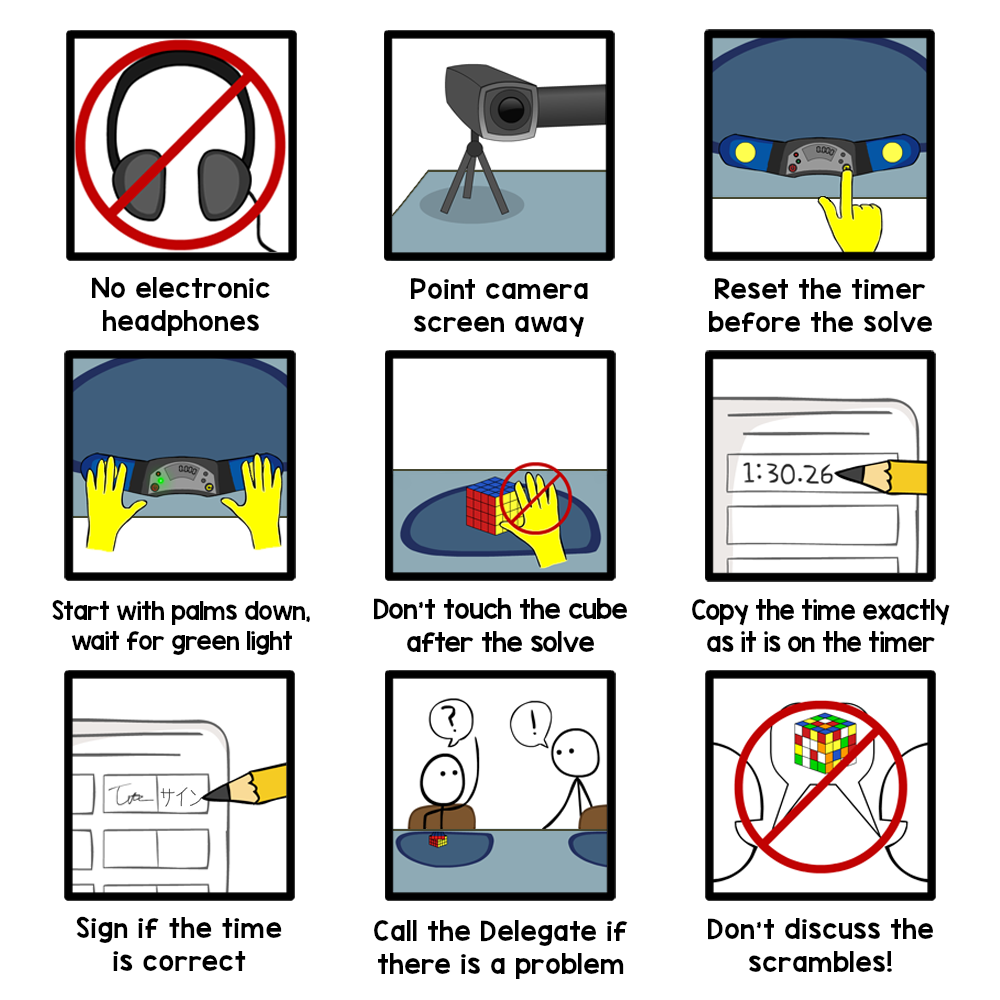
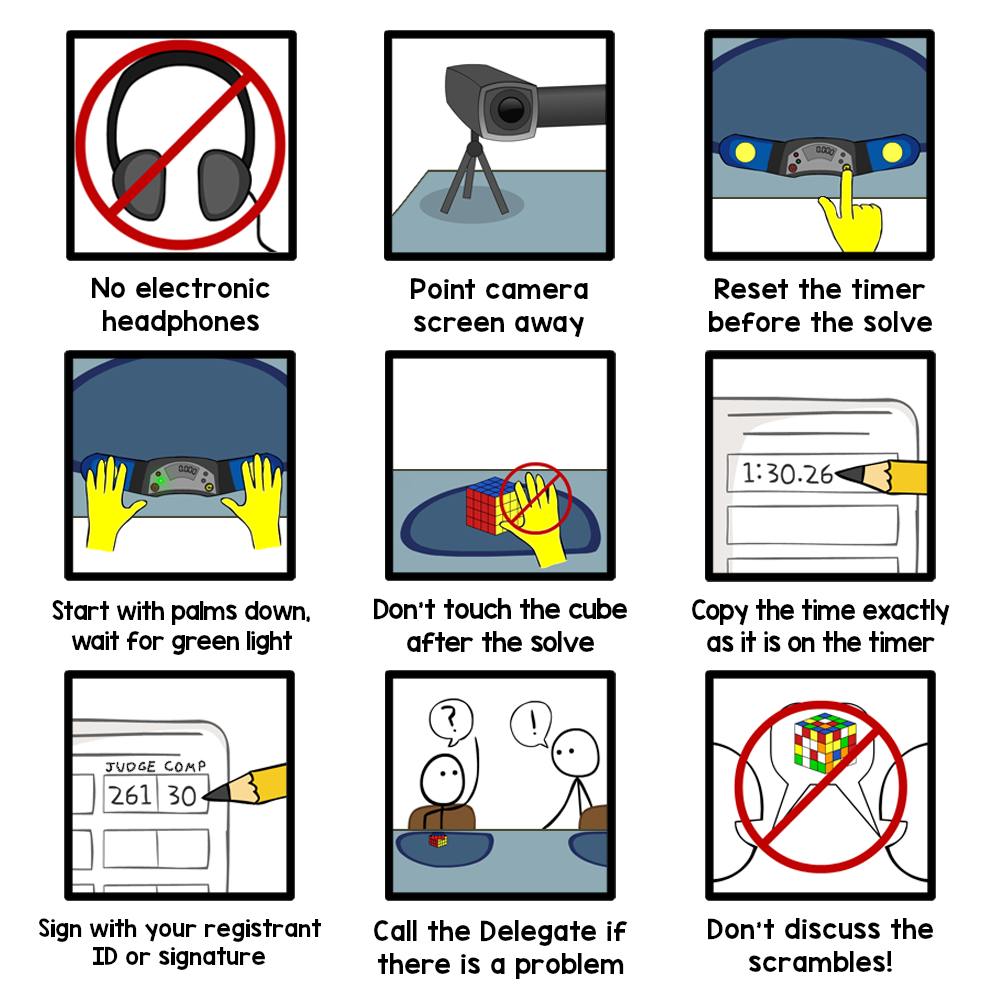
Update competition templates readme with information about the new MBLD templates

Changed region(s): [[0.031, 0.899, 0.31, 0.992], [0.093, 0.744, 0.217, 0.806]]

diff --git a/edudoc/competition-templates/competition-templates.md b/edudoc/competition-templates/competition-templates.md
@@ -4,14 +4,22 @@
 DO NOT use any templates before reading this entire document!
 :::::
 
-Here you can find printable templates for cube covers and Clock covers, both of which are stackable; 3D-printable cover designs for Square-1, Clock and Skewb puzzles; results boxes for scorecards: a design that can be hung on a wall and another that can be put on a table; Square-1 inserts (21 per page) and an outline of some important competition rules.
+Here you can find the following printable templates that can be used for WCA competitions:
+
+- Cube covers and Clock covers, both stackable
+- 3D-printable cover designs for Square-1, Clock and Skewb puzzles
+- Results boxes for scorecards: one that can be put on a table and another that can be hung on a wall
+- Square-1 inserts (21 per page)
+- Competing guide infographic with illustrations of the most important rules
+- Multi-Blind scrambling infographic, with illustrations that show best practices
+- Sheet with cube outlines for tracking Multi-Blind scrambles (14 cubes per page)
 
 ![](images/results_boxes_and_cube_cover.jpg){.centered width=600px}
 
 ## Instructions
 
-1. If you would like to use the WCA designs, use the files in the folder for the language used in your region. **WARNING: Some of the PDF previews might have rendering artifacts, but these won't show up if you download the files.** If you would like to make custom designs, use the files in the `Editable Files` folder. **DO NOT** make colored Clock cover designs, they must be in black and white (BW).
-2. The designs for paper Clock covers and competition rules can be printed on a home printer; the Clock covers need to be printed in BW and the competition rules need to be printed in color. The other designs **MUST** be printed using an industry-grade printer, so you will have to find a printing place in your area. They will require `PDF` files to make your prints.
+1. If you would like to use the WCA designs, use the files in the folder for the language used in your region. **WARNING: Some of the PDF previews might have rendering artifacts, but these won't show up if you download the files.** If you would like to make custom designs, use the files in the `Editable Files` folder. **DO NOT** make colored Clock cover designs, they must be in black and white (BW) in order to avoid affecting Clock pins.
+2. The template for paper Clock covers, the infographics, and the Multi-Blind cube outline sheet can be printed on a home printer. The infographics need to be printed in color, and the other two files need to be printed in BW. All other templates **MUST** be printed using an industry-grade printer, so you will have to find a printing service in your area. They will require `.pdf` files to make your prints.
 
 ![](images/paper_clock_covers.jpg){.centered width=450px}
 
@@ -35,14 +43,15 @@ Brendan's 3D multipurpose cover
 5. Make sure you print all templates **STRICTLY** within the following specifications:
 :::::
 
-| Template               | Paper size | Paper density  | Paper type |
-| ---------------------- | :--------: | :------------- | :--------: |
-| Cube cover             |     A3     | 350-400 gsm \* |   Color    |
-| Paper Clock cover \*\* |     A4     | 60-90 gsm      |     BW     |
-| Results box (table)    |     A3     | 350-400 gsm \* |   Color    |
-| Results box (wall)     |     A4     | 250-400 gsm    |   Color    |
-| Square-1 inserts       |     A4     | 250-400 gsm    |   Color    |
-| Competition rules      |     A4     | Any            |   Color    |
+| Template                                | Paper size | Paper density  | Color / BW |
+| --------------------------------------- | :--------: | :------------- | :--------: |
+| Cube cover                              |     A3     | 350-400 gsm \* |   Color    |
+| Paper Clock cover \*\*                  |     A4     | 60-90 gsm      |     BW     |
+| Results box (table)                     |     A3     | 350-400 gsm \* |   Color    |
+| Results box (wall)                      |     A4     | 250-400 gsm    |   Color    |
+| Square-1 inserts                        |     A4     | 250-400 gsm    |   Color    |
+| Competitor/Multi-Blind scrambling guide |     A4     | Any            |   Color    |
+| Multi-Blind cube outline sheet          |     A4     | Any            |     BW     |
 
 "gsm" stands for grams per square meter. This is the standard unit of measurement for paper density.
 
@@ -68,6 +77,10 @@ Brendan's 3D multipurpose cover
 
 7. On all templates except for the Clock covers, make all cuts on the **INNER** side of the black lines, leaving no black color visible after the cuts are done. On the Clock cover the cuts need to be made **THROUGH** the black lines.
 
+8. The Multi-Blind cube outline file has multiple pages, each of them with numbered spots for 14 cubes (two TNoodle scramble sets). The first page is for scrambles 1-14, the second is for 15-28, and so on, all the way up to scramble 84. You can print out as many of these as you require for your competition. Consider how many scramblers you will have, and how many cubes your competitors will be attempting. You can continue reusing these sheets for future competitions so as not to waste paper.
+
+When scrambling a Multi-Blind attempt, place each cube on the number of the scramble that was applied to it. Also make sure you never have two people scrambling cubes using the same sheet (remember that one of these sheets always corresponds to two TNoodle scramble sheets, since those have 7 scrambles per page). All of this greatly reduces the risk of applying the same scramble twice, which could result in the competitor receiving an extra, which is a big hindrance to the flow of a competition.
+
 ::::: {.box .warning}
 [Link to the templates folder](https://drive.google.com/drive/folders/1EVqEWSqruZ8_vEJpUmqhFUqaikzgUkkP?usp=sharing)
 
@@ -80,7 +93,7 @@ Paper/card templates - Deni Mintsaev<br/>
 Multipurpose cover - Brendan Bakker and Patrick Dwyer<br/>
 Stackable 3D Clock cover - Francisco Montañés Barbudo and Mitchell Lane<br/>
 3D Clock cover - Cady Shields<br/>
-Competition rules image - Tom Nelson
+Competition rules and Multi-Blind scrambling guide illustrations - Tom Nelson
 
 ## Translations
 

diff --git a/edudoc/competition-templates/competition-templates-ru.md b/edudoc/competition-templates/competition-templates-ru.md
@@ -11,7 +11,7 @@
 ## Инструкция
 
 1. Если вы хотите использовать готовые дизайны от WCA, используйте файлы в папке с языком вашего региона. **ВНИМАНИЕ: Превью некоторых PDF файлов могут иметь визуальные артефакты, но их не будет на скачанном файле.** Если вы хотите сделать свои дизайны, то используйте файлы в папке `Editable Files`. **НЕ ДЕЛАЙТЕ** дизайны накрывашек для Клока в цвете, они должны быть в черно-белом (ЧБ).
-2. Шаблоны бумажных накрывашек для Клока и правил для соревнований могут быть распечатаны на домашнем принтере; накрывашки для Клока должны быть в ЧБ, а правила для соревнований - в цвете. Остальные шаблоны **ДОЛЖНЫ** быть распечатаны на принтере в типографии, так что вам придется найти типографию в своем регионе. Им понадобятся `PDF` файлы, чтобы распечатать ваши шаблоны.
+2. Шаблоны бумажных накрывашек для Клока и правил для соревнований могут быть распечатаны на домашнем принтере; накрывашки для Клока должны быть в ЧБ, а правила для соревнований - в цвете. Остальные шаблоны **ДОЛЖНЫ** быть распечатаны на принтере в типографии, так что вам придется найти типографию в своем регионе. Им понадобятся `.pdf` файлы, чтобы распечатать ваши шаблоны.
 
 ![](images/paper_clock_covers.jpg){.centered width=450px}
 

diff --git a/edudoc/competition-templates/competition-templates-es.md b/edudoc/competition-templates/competition-templates-es.md
@@ -11,7 +11,7 @@ Aquí podrás encontrar: plantillas imprimibles de tapacubos y coberturas para C
 ## Instrucciones
 
 1. Si deseas utilizar los diseños de la WCA, busca los archivos en la carpeta/directorio que corresponda a tu idioma. **ADVERTENCIA: la vista previa de los archivos PDF pueden tener detalles de renderización. Si descargas el archivo, ya no se verán.** Si tienes pensado hacer diseños personalizados, utiliza los archivos en la carpeta llamada `Editable Files`. **NO** hagas coberturas para Clock a color, deben estar en blanco y negro (BW).
-2. Los diseños de las coberturas para Clock en papel y los folletos con las reglas para competir, pueden imprimirse en una impresora doméstica (las coberturas para Clock deben estar en blanco y negro y los folletos deben estar a color). Los demás diseños **DEBEN** imprimirse utilizando una impresora de grado industrial, así que deberás buscar un lugar donde tengan una (debes llevar los archivos `PDF`).
+2. Los diseños de las coberturas para Clock en papel y los folletos con las reglas para competir, pueden imprimirse en una impresora doméstica (las coberturas para Clock deben estar en blanco y negro y los folletos deben estar a color). Los demás diseños **DEBEN** imprimirse utilizando una impresora de grado industrial, así que deberás buscar un lugar donde tengan una (debes llevar los archivos `.pdf`).
 
 ![](images/paper_clock_covers.jpg){.centered width=450px}
 

diff --git a/edudoc/competition-templates/competition-templates-pl.md b/edudoc/competition-templates/competition-templates-pl.md
@@ -11,7 +11,7 @@ Tutaj możesz znaleźć szablony do druku dla osłonek na kostki i osłonek na z
 ## Instrukcje
 
 1. Jeśli chcesz korzystać z projektów WCA, użyj plików w folderze dla języka używanego w Twoim regionie. **OSTRZEŻENIE: Niektóre podglądy plików PDF mogą zawierać artefakty renderowania, ale nie pojawią się one po pobraniu plików.** Jeśli chcesz tworzyć niestandardowe projekty, użyj plików w folderze `Pliki edytowalne`. **NIE** twórz kolorowych projektów okładek zegarów, muszą być one czarno-białe (BW).
-2. Projekty papierowych okładek zegarów i regulaminów zawodów można wydrukować na domowej drukarce; okładki zegarów muszą być wydrukowane czarno-białe, a regulamin zawodów w kolorze. Pozostałe projekty **MUSZĄ** zostać wydrukowane przy użyciu drukarki klasy branżowej, więc musisz znaleźć drukarnię w swojej okolicy. Do wykonania tych wydruków będą wymagać plików `PDF`.
+2. Projekty papierowych okładek zegarów i regulaminów zawodów można wydrukować na domowej drukarce; okładki zegarów muszą być wydrukowane czarno-białe, a regulamin zawodów w kolorze. Pozostałe projekty **MUSZĄ** zostać wydrukowane przy użyciu drukarki klasy branżowej, więc musisz znaleźć drukarnię w swojej okolicy. Do wykonania tych wydruków będą wymagać plików `.pdf`.
 
 ![](images/paper_clock_covers.jpg){.centered width=450px}
 
